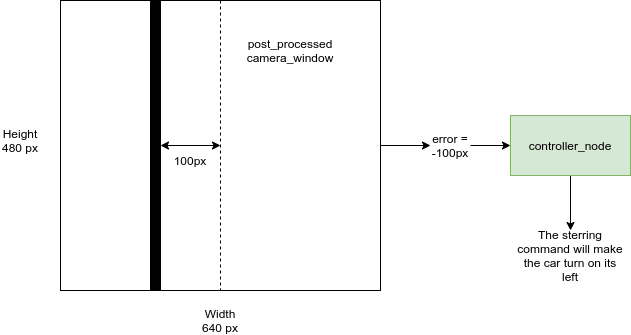
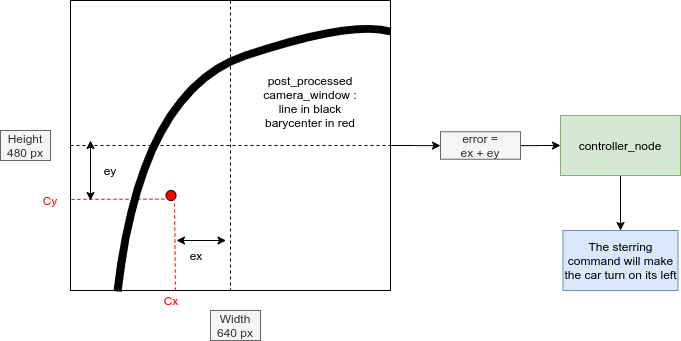
update vrep report

Changed region(s): [[0.0, 0.0, 1.0, 0.8955], [0.3011, 0.8955, 0.3914, 1.0]]

diff --git a/doc/report/Chapters/vrep_simulation.tex b/doc/report/Chapters/vrep_simulation.tex
@@ -1,20 +1,40 @@
 \subsection{Explaination}
 
-Based on the practical work made with Benoit Zerr, we got a realisitic and a track with a line in the middle of the track.
+Based on the practical work made with Benoit Zerr, we made a realistic track with a line in the middle \cite{zerr}.
 The simulated in VREP car is equiped with a camera. Our VREP simulator is interfaced with ROS through the piece of LUA code :
-\texttt{rc\_car\_control\_ros.lua} et \texttt{rc\_car\_onboard\_cam.lua}.
 
-The VREP camera send a through a topic \texttt{image}, a picture of the front of the car. 
-Then the \texttt{camera\_node.py} subscriber process the image with OpenCV and return the position
-of the center line in the windows, then it compute an error, we want the line in the middle of the windows. 
+\begin{figure}[ht!]
+    \begin{center}
+        \includegraphics[scale=0.5]{Images/graph_node_simulation.png}
+    \end{center}
+    \caption{Graph node of the simulation}
+    \label{fig:graph_node_simulation}
+
+\end{figure}
+
+As it is explained on the figure \ref{fig:graph_node_simulation}. The VREP camera send a through a topic \texttt{image}, a picture of the front of the car. 
+Then the \texttt{camera\_node} subscriber process the image with OpenCV and return the position
+of the barycenter of the line (red in the figure \ref{fig:command_explanation}), then it compute an error, we want the barycenter of line in the middle of the windows, as it's shown on figure \ref{fig:command_explanation}. 
 This error is sent through a topic \texttt{error}, the controller is suscribed to this topic,
 it generate a command thanks to a PD command law which is sent to VREP. And now the car can loop forever, and achieve 
 the perfect run in 1'15'' ! 🚙 🏁 🕙
 
+\subsection{Regulation}
+\begin{figure}[ht!]
+    \begin{center}
+        \includegraphics[scale=0.5]{Images/command_explanation.png}
+    \end{center}
+    \caption{Explanation of the command : line in black, barycenter in red}
+    \label{fig:command_explanation}
 
-Here is the video link : 
+\end{figure}
+We implemented a PD regulation. Let's call $(c_x, (c_y)$, the barycenter of white line, the car is required to stay in the middle of the line.
+Therefor we compute an error : $e = (width/2 - c_x) + (height/2 - c_y)$ and then the command u equals : 
+$u = K_p e + K_d \frac{de}{dt}$. This command is computed in the controller and sent to vrep.
 
 
-\url{https://www.youtube.com/watch?time_continue=10&v=_vIXo1TvG0w&feature=emb_logo} ⏯
+The result in video : \footnote{\url{https://www.youtube.com/watch?time_continue=10&v=_vIXo1TvG0w&feature=emb_logo} ⏯}  
 
-Inspired from Benoit Zerr work : \url{https://www.ensta-bretagne.fr/zerr/dokuwiki/doku.php?id=vrep:create-rc-car-robot}
+
+
+
